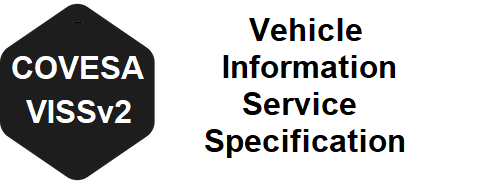
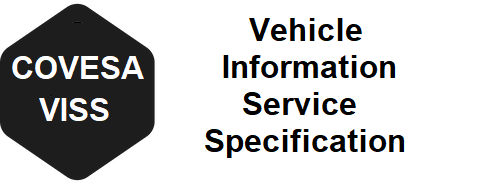
Documenatation update. Curvelog signal dimension config file added.

Changed region(s): [[0.0312, 0.5163, 0.2812, 0.6793]]

diff --git a/tutorial/content/datastore/_index.md b/tutorial/content/datastore/_index.md
@@ -4,10 +4,15 @@ title: "VISSR Data Storage"
 
 The VISSR tech stack architecture contains a data storage component located between the server and the feeder(s).
 This data store provides a decoupling between the server data access operations and the data access operations of a feeder.
+
 Feeders are expected to keep the data store updated with the latest available value of the signals defined in the VSS tree,
 and for client read/subscribe requests the server reads from what is available in the data store.
 This leads to that for all client read/subscribe requests the underlying vehicle system does not get involved by instantaneously
 having to provide a signal value when asked for by a client.
+
+For subscriptions it also enables that a more versatile menu of event trigger conditions can be available to the client
+than what the underlying vehicle system actually is supporting.
+
 Client write requests are not passed through the data store (except for the soon to be deprecated version 1 client template type),
 but are instead communicated over an Unix Domain Socket IPC channel directly to the feeder by the server.
 

diff --git a/tutorial/content/server/_index.md b/tutorial/content/server/_index.md
@@ -1,5 +1,5 @@
 ---
-title: "VISSv2 Server"
+title: "VISSR Server"
 ---
 
 The VISSv2 server is the Sw component that implements the interface that is exposed to the clients, and that must conform to the COVESA VISSv2 specification.

diff --git a/tutorial/content/peripheral-components/_index.md b/tutorial/content/peripheral-components/_index.md
@@ -1,5 +1,5 @@
 ---
-title: "VISSv2 peripheral components"
+title: "VISSR peripheral components"
 ---
 
 A few other software components that can be useful when setting up a VISSv2 communication tech stack exists:

diff --git a/tutorial/content/client/_index.md b/tutorial/content/client/_index.md
@@ -1,5 +1,5 @@
 ---
-title: "VISSv2 Clients"
+title: "VISSR Clients"
 ---
 
 ## Client deployment options

diff --git a/tutorial/content/docker-step-by-step/_index.md b/tutorial/content/docker-step-by-step/_index.md
@@ -1,5 +1,5 @@
 ---
-title: "VISSv2 Docker"
+title: "VISSR Docker"
 ---
 
 ## Intro
